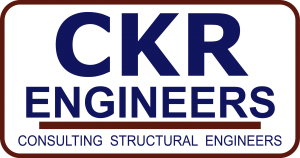
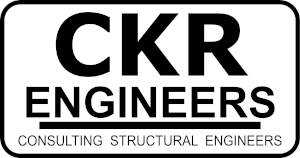
Updated CKR Png and README

diff --git a/README.md b/README.md
@@ -4,7 +4,7 @@
 <!-- ALL-CONTRIBUTORS-BADGE:END -->
 
 [![Gem Version](https://badge.fury.io/rb/devlopr.svg)](https://badge.fury.io/rb/devlopr)
-![workflow-badge](https://github.com/sujaykundu777/devlopr-jekyll/actions/workflows/deploy.yml/badge.svg)
+![workflow-badge](https://github.com/CompuGuy99/CompuGuy99.github.io/actions/workflows/deploy.yml/badge.svg)
 [![Netlify Status](https://api.netlify.com/api/v1/badges/4232ac2b-63e0-4c78-92e0-e95aad5ab8c3/deploy-status)](https://app.netlify.com/sites/devlopr/deploys)
 ![](https://ruby-gem-downloads-badge.herokuapp.com/devlopr?type=total&color=brightgreen&style=plastic)
 [![MIT license](https://img.shields.io/badge/License-MIT-blue.svg)](https://lbesson.mit-license.org/)
